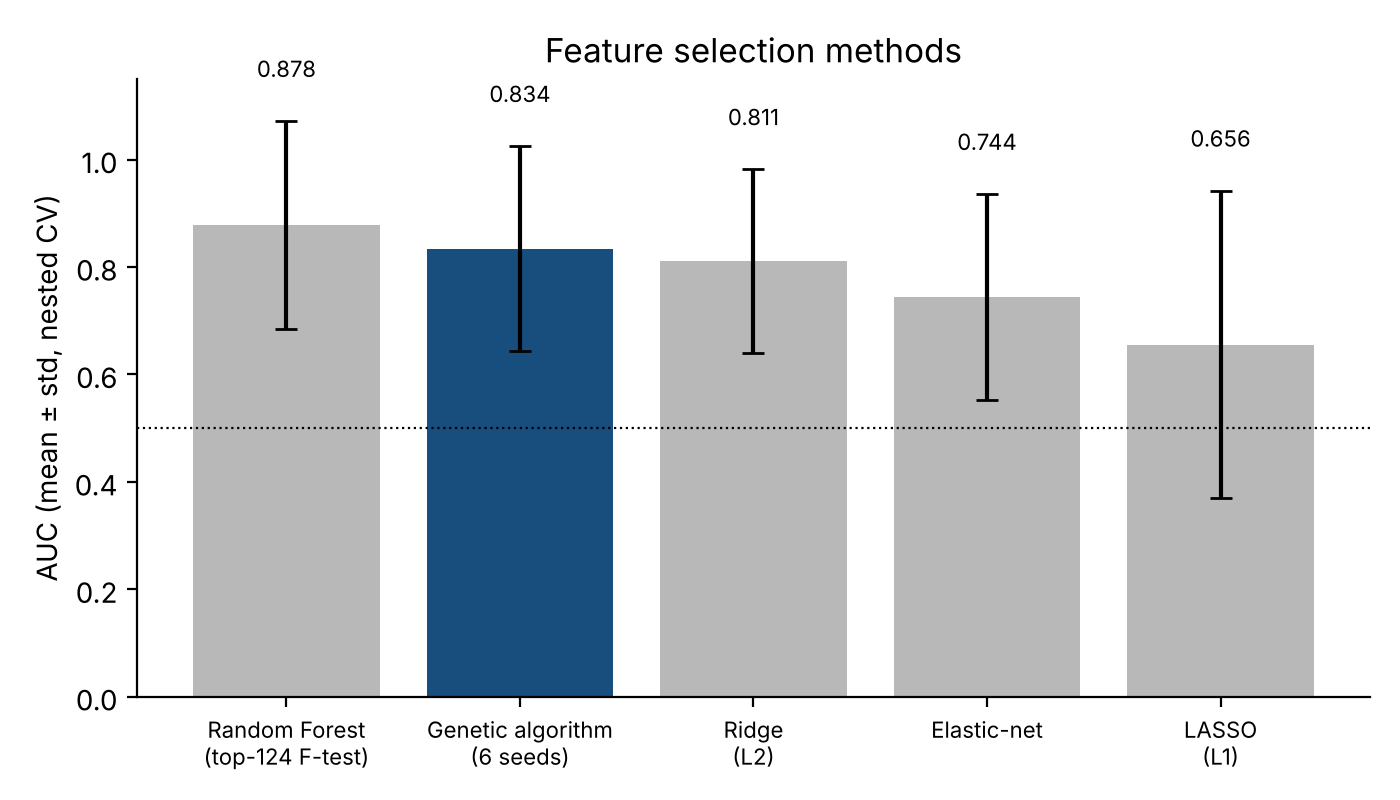
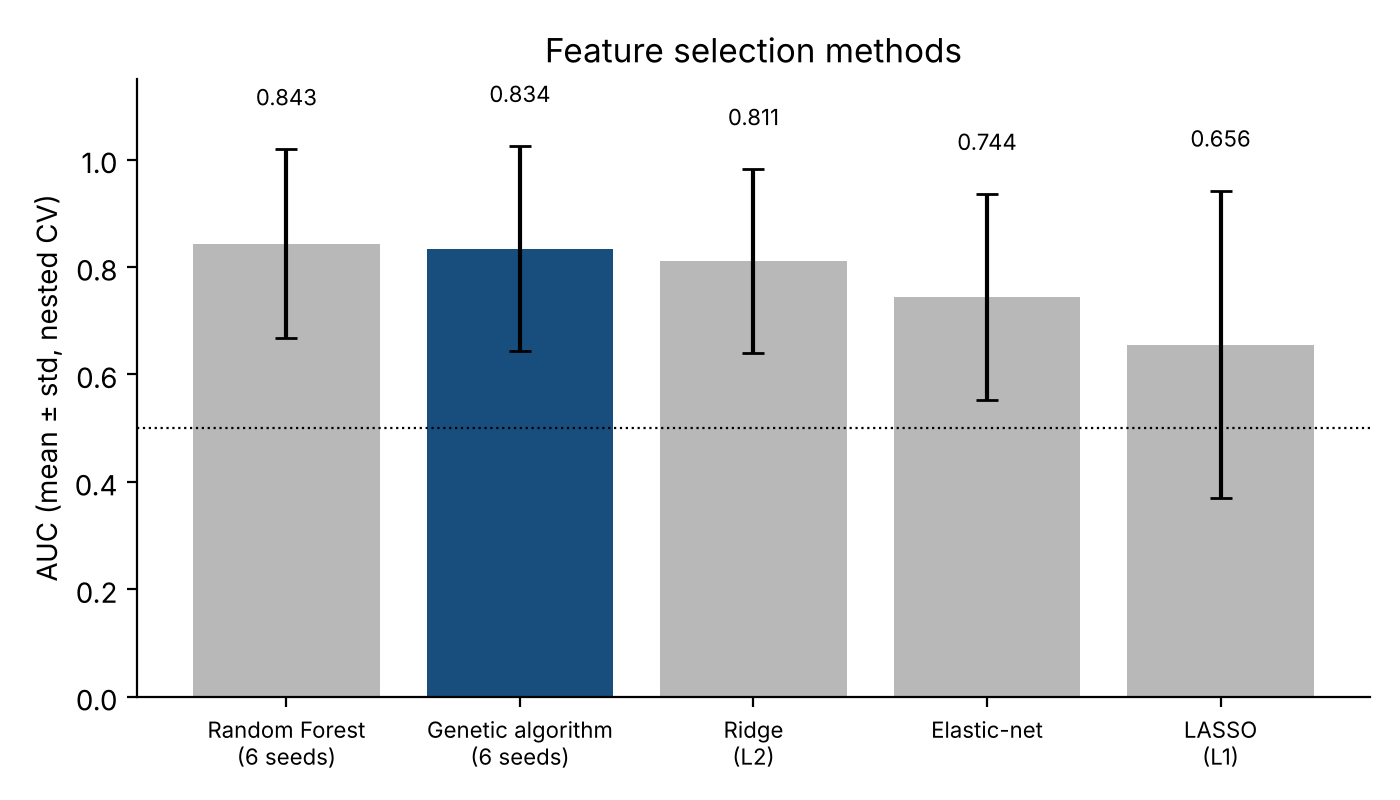
add files

diff --git a/src/validation.py b/src/validation.py
@@ -78,9 +78,9 @@ def nested_baselines(expr, y):
     return out
 
 
-def rf_baseline(expr, y, k=124):
+def rf_baseline(expr, y, k=124, seed=42):
     """Random Forest on the top-k genes by F-test, with selection refit inside each fold."""
-    model = make_pipeline(SelectKBest(f_classif, k=k), RandomForestClassifier(n_estimators=200, random_state=42))
+    model = make_pipeline(SelectKBest(f_classif, k=k), RandomForestClassifier(n_estimators=200, random_state=seed))
     return cross_val_score(model, expr, y, cv=OUTER, scoring="roc_auc").tolist()
 
 

diff --git a/README.md b/README.md
@@ -97,3 +97,5 @@ samples only, and that the GA reports the gene names of the columns it actually 
 - Bestetti S. et al. (2020). Human aquaporin-11 guarantees efficient transport of H2O2 across the ER membrane. *Redox Biology*, 28.
 
 Full reference list in the thesis. Code is MIT-licensed.
+
+Aleksandra Crnatović · [github.com/neoalexy](https://github.com/neoalexy)
